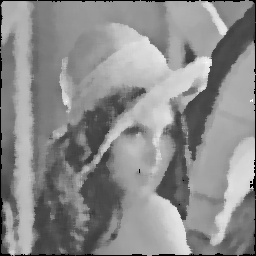
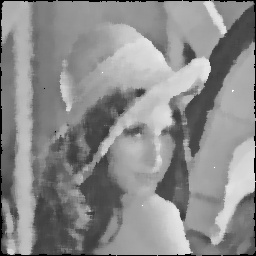
Cleaned up comments, uncommented and tested all functionality except correlation. That takes forever and I already tested it so we're gonna call it good.

diff --git a/gradient_laplacian.py b/gradient_laplacian.py
@@ -8,6 +8,8 @@ outfile_save_path = "Output_Images/Gradient_Laplacian/"
 lenna = cv2.imread('Input_Images/lenna.gif', flags=0)
 sf = cv2.imread('Input_Images/sf.gif', flags=0)
 
+cv2.imwrite(f'{outfile_save_path}sf.jpg', sf)
+
 def gradient(input_img_array: np.ndarray, weights: np.ndarray):
     """
     Computes the gradient of an image with a given mask.
@@ -55,7 +57,6 @@ def gradient_magnitude(x_values: np.ndarray, y_values: np.ndarray):
             y_value = y_values[row, col]
 
             gradient_mag_value = math.sqrt((x_value**2)+(y_value**2))
-            print(f'x_value: {x_value}\ny_value: {y_value}\nmag: {gradient_mag_value}\n\n')
             gradient_mag_array[row, col] = gradient_mag_value
 
     gradient_mag_array = mapValues(gradient_mag_array)
@@ -74,35 +75,35 @@ prewitt_y = np.array([
     [-1, 0, 1]
 ])
 
-# #lenna prewitt
-# lenna_prewitt_x = gradient(lenna, prewitt_x)
-# cv2.imwrite(f'{outfile_save_path}lenna_prewitt_x.jpg', lenna_prewitt_x)
+#lenna prewitt
+lenna_prewitt_x = gradient(lenna, prewitt_x)
+cv2.imwrite(f'{outfile_save_path}lenna_prewitt_x.jpg', lenna_prewitt_x)
 
-# lenna_prewitt_y = gradient(lenna, prewitt_y)
-# cv2.imwrite(f'{outfile_save_path}lenna_prewitt_y.jpg', lenna_prewitt_y)
+lenna_prewitt_y = gradient(lenna, prewitt_y)
+cv2.imwrite(f'{outfile_save_path}lenna_prewitt_y.jpg', lenna_prewitt_y)
 
-# lenna_prewitt_mag = gradient_magnitude(lenna_prewitt_x, lenna_prewitt_y)
-# cv2.imwrite(f'{outfile_save_path}lenna_prewitt_mag.jpg', lenna_prewitt_mag)
+lenna_prewitt_mag = gradient_magnitude(lenna_prewitt_x, lenna_prewitt_y)
+cv2.imwrite(f'{outfile_save_path}lenna_prewitt_mag.jpg', lenna_prewitt_mag)
 
-# #lenna prewitt sharpen
-# lenna_prewitt_mag = lenna_prewitt_mag.astype(np.int64)
-# prewitt_sharpened_lenna = add_images(lenna, -1*lenna_prewitt_mag)
-# cv2.imwrite(f'{outfile_save_path}prewitt_sharpened_lenna.jpg', prewitt_sharpened_lenna)
+#lenna prewitt sharpen
+lenna_prewitt_mag = lenna_prewitt_mag.astype(np.int64)
+prewitt_sharpened_lenna = add_images(lenna, -1*lenna_prewitt_mag)
+cv2.imwrite(f'{outfile_save_path}prewitt_sharpened_lenna.jpg', prewitt_sharpened_lenna)
 
-# #sf prewitt
-# sf_prewitt_x = gradient(sf, prewitt_x)
-# cv2.imwrite(f'{outfile_save_path}sf_prewitt_x.jpg', sf_prewitt_x)
+#sf prewitt
+sf_prewitt_x = gradient(sf, prewitt_x)
+cv2.imwrite(f'{outfile_save_path}sf_prewitt_x.jpg', sf_prewitt_x)
 
-# sf_prewitt_y = gradient(sf, prewitt_y)
-# cv2.imwrite(f'{outfile_save_path}sf_prewitt_y.jpg', sf_prewitt_y)
+sf_prewitt_y = gradient(sf, prewitt_y)
+cv2.imwrite(f'{outfile_save_path}sf_prewitt_y.jpg', sf_prewitt_y)
 
-# sf_prewitt_mag = gradient_magnitude(sf_prewitt_x, sf_prewitt_y)
-# cv2.imwrite(f'{outfile_save_path}sf_prewitt_mag.jpg', sf_prewitt_mag)
+sf_prewitt_mag = gradient_magnitude(sf_prewitt_x, sf_prewitt_y)
+cv2.imwrite(f'{outfile_save_path}sf_prewitt_mag.jpg', sf_prewitt_mag)
 
-# #sf prewitt sharpen
-# sf_prewitt_mag = sf_prewitt_mag.astype(np.int64)
-# prewitt_sharpened_sf = add_images(sf, -1*sf_prewitt_mag)
-# cv2.imwrite(f'{outfile_save_path}prewitt_sharpened_sf.jpg', prewitt_sharpened_sf)
+#sf prewitt sharpen
+sf_prewitt_mag = sf_prewitt_mag.astype(np.int64)
+prewitt_sharpened_sf = add_images(sf, -1*sf_prewitt_mag)
+cv2.imwrite(f'{outfile_save_path}prewitt_sharpened_sf.jpg', prewitt_sharpened_sf)
 
 
 #sobel
@@ -118,35 +119,35 @@ sobel_y = np.array([
     [-1, 0, 1]
 ])
 
-# #lenna sobel
-# lenna_sobel_x = gradient(lenna, sobel_x)
-# cv2.imwrite(f'{outfile_save_path}lenna_sobel_x.jpg', lenna_sobel_x)
+#lenna sobel
+lenna_sobel_x = gradient(lenna, sobel_x)
+cv2.imwrite(f'{outfile_save_path}lenna_sobel_x.jpg', lenna_sobel_x)
 
-# lenna_sobel_y = gradient(lenna, sobel_y)
-# cv2.imwrite(f'{outfile_save_path}lenna_sobel_y.jpg', lenna_sobel_y)
+lenna_sobel_y = gradient(lenna, sobel_y)
+cv2.imwrite(f'{outfile_save_path}lenna_sobel_y.jpg', lenna_sobel_y)
 
-# lenna_sobel_mag = gradient_magnitude(lenna_sobel_x, lenna_sobel_y)
-# cv2.imwrite(f'{outfile_save_path}lenna_sobel_mag.jpg', lenna_sobel_mag)
+lenna_sobel_mag = gradient_magnitude(lenna_sobel_x, lenna_sobel_y)
+cv2.imwrite(f'{outfile_save_path}lenna_sobel_mag.jpg', lenna_sobel_mag)
 
-# #lenna sobel sharpen
-# lenna_sobel_mag = lenna_sobel_mag.astype(np.int64)
-# sobel_sharpened_lenna = add_images(lenna, -1*lenna_sobel_mag)
-# cv2.imwrite(f'{outfile_save_path}sobel_sharpened_lenna.jpg', sobel_sharpened_lenna)
+#lenna sobel sharpen
+lenna_sobel_mag = lenna_sobel_mag.astype(np.int64)
+sobel_sharpened_lenna = add_images(lenna, -1*lenna_sobel_mag)
+cv2.imwrite(f'{outfile_save_path}sobel_sharpened_lenna.jpg', sobel_sharpened_lenna)
 
-# #sf sobel
-# sf_sobel_x = gradient(sf, sobel_x)
-# cv2.imwrite(f'{outfile_save_path}sf_sobel_x.jpg', sf_sobel_x)
+#sf sobel
+sf_sobel_x = gradient(sf, sobel_x)
+cv2.imwrite(f'{outfile_save_path}sf_sobel_x.jpg', sf_sobel_x)
 
-# sf_sobel_y = gradient(sf, sobel_y)
-# cv2.imwrite(f'{outfile_save_path}sf_sobel_y.jpg', sf_sobel_y)
+sf_sobel_y = gradient(sf, sobel_y)
+cv2.imwrite(f'{outfile_save_path}sf_sobel_y.jpg', sf_sobel_y)
 
-# sf_sobel_mag = gradient_magnitude(sf_sobel_x, sf_sobel_y)
-# cv2.imwrite(f'{outfile_save_path}sf_sobel_mag.jpg', sf_sobel_mag)
+sf_sobel_mag = gradient_magnitude(sf_sobel_x, sf_sobel_y)
+cv2.imwrite(f'{outfile_save_path}sf_sobel_mag.jpg', sf_sobel_mag)
 
-# #sf sobel sharpen
-# sf_sobel_mag = sf_sobel_mag.astype(np.int64)
-# sobel_sharpened_sf = add_images(sf, -1*sf_sobel_mag)
-# cv2.imwrite(f'{outfile_save_path}sobel_sharpened_sf.jpg', sobel_sharpened_sf)
+#sf sobel sharpen
+sf_sobel_mag = sf_sobel_mag.astype(np.int64)
+sobel_sharpened_sf = add_images(sf, -1*sf_sobel_mag)
+cv2.imwrite(f'{outfile_save_path}sobel_sharpened_sf.jpg', sobel_sharpened_sf)
 
 laplacian_mask = np.array([
     [0, 1, 0],

diff --git a/averaging_gaussian.py b/averaging_gaussian.py
@@ -33,19 +33,18 @@ def average(input_img_array: np.ndarray, size: int):
     
     return traverseImage(input_img_array, weights, weightSumMatrix)
 
-# lenna_average7 = average(lenna, 7)
-# cv2.imwrite(f'{outfile_save_path}lenna_averaged7.jpg', lenna_average7)
+lenna_average7 = average(lenna, 7)
+cv2.imwrite(f'{outfile_save_path}lenna_averaged7.jpg', lenna_average7)
 
-# lenna_average15 = average(lenna, 15)
-# cv2.imwrite(f'{outfile_save_path}lenna_averaged15.jpg', lenna_average15)
+lenna_average15 = average(lenna, 15)
+cv2.imwrite(f'{outfile_save_path}lenna_averaged15.jpg', lenna_average15)
 
-# average_test_array = np.array([
-#     [0, 1, 2],
-#     [2, 1, 0],
-#     [0, 1, 2]
-# ], dtype=np.uint8)
+sf_average7 = average(sf, 7)
+cv2.imwrite(f'{outfile_save_path}sf_averaged7.jpg', sf_average7)
 
-# print(average(average_test_array, 3))
+sf_average15 = average(sf, 15)
+cv2.imwrite(f'{outfile_save_path}sf_averaged15.jpg', sf_average15)
+
 
 def gaussian(input_img_array: np.ndarray, weights: np.ndarray):
     """
@@ -95,8 +94,14 @@ gaussian15 = np.array([
     [2,2,3,4,5,5,6,6,6,5,5,4,3,2,2]
 ])
 
-# lenna_guassian7 = gaussian(lenna, gaussian7)
-# cv2.imwrite(f'{outfile_save_path}lenna_guassian7.jpg', lenna_guassian7)
+lenna_guassian7 = gaussian(lenna, gaussian7)
+cv2.imwrite(f'{outfile_save_path}lenna_guassian7.jpg', lenna_guassian7)
 
-# lenna_guassian15 = gaussian(lenna, gaussian15)
-# cv2.imwrite(f'{outfile_save_path}lenna_guassian15.jpg', lenna_guassian15)
+lenna_guassian15 = gaussian(lenna, gaussian15)
+cv2.imwrite(f'{outfile_save_path}lenna_guassian15.jpg', lenna_guassian15)
+
+sf_guassian7 = gaussian(sf, gaussian7)
+cv2.imwrite(f'{outfile_save_path}sf_guassian7.jpg', sf_guassian7)
+
+sf_guassian15 = gaussian(sf, gaussian15)
+cv2.imwrite(f'{outfile_save_path}sf_guassian15.jpg', sf_guassian15)

diff --git a/median_filtering.py b/median_filtering.py
@@ -6,6 +6,7 @@ outfile_save_path = "Output_Images/Median_Filtering/"
 
 lenna = cv2.imread('Input_Images/lenna.gif', flags=0)
 boat = cv2.imread('Input_Images/boat.gif', flags=0)
+cv2.imwrite(f'{outfile_save_path}boat.jpg', boat)
 
 #salt and pepper images
 lenna_sp_30 = salt_pepper_noise(lenna, .3)
@@ -65,16 +66,3 @@ cv2.imwrite(f'{outfile_save_path}boat_sp_50_median_filtered7.jpg', boat_sp_50_me
 boat_sp_50_median_filtered15 = median_filter(boat_sp_50, 15)
 cv2.imwrite(f'{outfile_save_path}boat_sp_50_median_filtered15.jpg', boat_sp_50_median_filtered15)
 
-#compare images (they looked too  similar, but they are different)
-# boat_sp_30_median_filtered15 = boat_sp_30_median_filtered15.astype(np.int64)
-# boat_sp_50_median_filtered15 = boat_sp_50_median_filtered15.astype(np.int64)
-# boat_compared_15 = add_images(boat_sp_30_median_filtered15, -1*boat_sp_50_median_filtered15)
-# for row in range(boat_compared_15.shape[0]):
-#     for col in  range(boat_compared_15.shape[1]):
-#         if boat_compared_15[row, col] > 0:
-#             boat_compared_15[row, col] = 255
-#         else:
-#             boat_compared_15[row, col] = 0
-
-# boat_compared_15 = boat_compared_15.astype(np.uint8)
-# cv2.imwrite(f'{outfile_save_path}boat_compared_15.jpg', boat_compared_15)

diff --git a/correlation.py b/correlation.py
@@ -44,15 +44,4 @@ correlated_image = Image.fromarray(correlated_image_array)
 correlated_image.save(f"{outfile_save_path}correlated_image.jpg")
 
 
-#test correlation on small array
-# correlation_test_array = np.array([
-#     [0, 1, 2],
-#     [2, 1, 0],
-#     [0, 1, 2]
-# ], dtype=np.uint8)
-
-# test_weights = np.ones((3, 3), dtype=np.uint8)
-
-# print(correlation(correlation_test_array, test_weights))
-
 

diff --git a/README.md b/README.md
@@ -1,1 +1,2 @@
 # CS_474_Proj2
+To test any part of the assignment, simply open the python file in vs code or IDE of your choice and run the file. 
